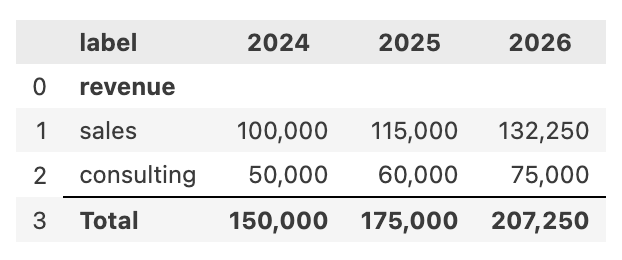
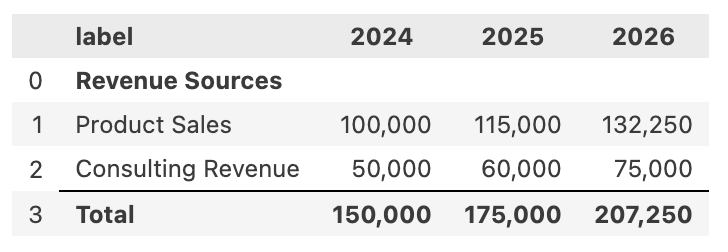
Update category tables and examples in documentation
- Increased the width of the category table image in the user guide.
- Removed the category table with colors image as it is no longer used.
- Updated the Jupyter notebook example to reflect changes in the category table, including:
  - Adjusted execution counts for code cells.
  - Changed table headers and row labels to be more descriptive.
  - Added a new code cell to display model details.
  - Ensured consistency in table formatting and appearance.

diff --git a/docs/user-guide/working-with-categories.md b/docs/user-guide/working-with-categories.md
@@ -162,15 +162,8 @@ revenue_table = model.category('revenue').table()
 revenue_table  # Displays formatted table in notebook
 ```
 
-![Category Table Example](../assets/images/categories/category-table-1.png){ width="300" }
+![Category Table Example](../assets/images/categories/category-table-1.png){ width="400" }
 
-```python
-# Customize table appearance
-revenue_table = model.category('revenue').table(hardcoded_color='blue')
-revenue_table  # Display formatted table with colored hardcoded values
-```
-
-![Category Table with Colors](../assets/images/categories/category-table-2.png){ width="300" }
 
 ## Creating Charts for Categories
 
